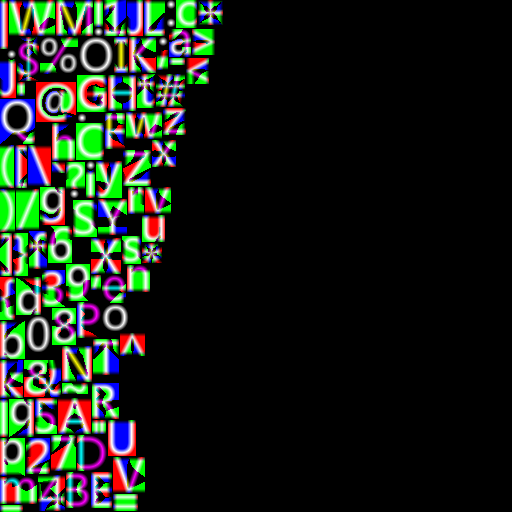
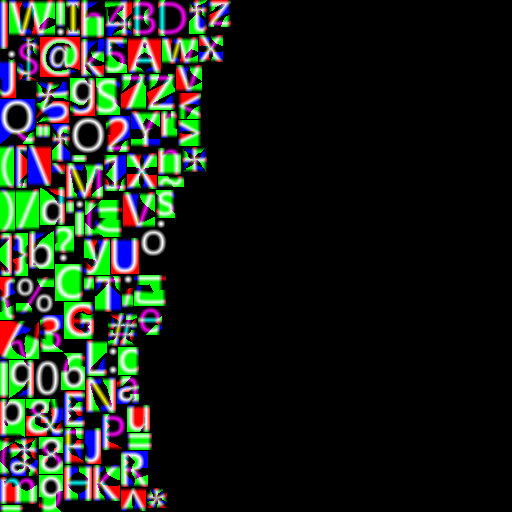
Allow for measuring and centering text

Changed region(s): [[0.0, 0.0, 0.4688, 1.0]]

diff --git a/src/renderer/render-utils/msdf-text.ts b/src/renderer/render-utils/msdf-text.ts
@@ -63,7 +63,7 @@ const msdfTextShader = /*wgsl*/`
     return vec4(1, 1, 1, alpha);
   }
 
-  // Technique from https://drewcassidy.me/2020/06/26/sdf-antialiasing/
+  // Antialiasing technique from https://drewcassidy.me/2020/06/26/sdf-antialiasing/
   @fragment
   fn fragmentMainAntialias(input : VertexOutput) -> @location(0) vec4f {
     let dist = 0.5 - sampleMsdf(input.texcoord);
@@ -97,11 +97,18 @@ export class MsdfFont {
     if (!char) { char = this.defaultChar; }
     return char;
   }
-}
+};
+
+export interface MsdfTextMeasurements {
+  width: number,
+  height: number,
+  lineWidths: number[],
+  printedCharCount: number,
+};
 
 export class MsdfText {
-  constructor(public bindGroup: GPUBindGroup, public charCount: number, public font: MsdfFont) {}
-}
+  constructor(public bindGroup: GPUBindGroup, public measurements: MsdfTextMeasurements, public font: MsdfFont) {}
+};
 
 export class MsdfTextRenderer {
   fontBindGroupLayout: GPUBindGroupLayout;
@@ -257,7 +264,7 @@ export class MsdfTextRenderer {
     return new MsdfFont(bindGroup, json.common.lineHeight * h, chars);
   }
 
-  formatText(font: MsdfFont, text: string): MsdfText {
+  formatText(font: MsdfFont, text: string, centered: boolean = false): MsdfText {
     const textBuffer = this.device.createBuffer({
       label: 'msdf text buffer',
       size: text.length * Float32Array.BYTES_PER_ELEMENT * 8,
@@ -266,31 +273,29 @@ export class MsdfTextRenderer {
     });
 
     const textArray = new Float32Array(textBuffer.getMappedRange());
-    let printedCharCount = 0;
-    let textOffsetX = 0;
-    let textOffsetY = 0;
     let offset = 0;
-    for (let i = 0; i < text.length; ++i) {
-      let charCode = text.charCodeAt(i);
 
-      switch(charCode) {
-        case 10: // Newline
-          textOffsetX = 0;
-          textOffsetY -= font.lineHeight;
-          continue;
-        case 13: // CR
-          continue;
-        default: {
-          printedCharCount++;
-          let char = font.getChar(charCode);
-          textArray[offset] = textOffsetX;
-          textArray[offset+1] = textOffsetY;
-          textArray[offset+2] = char.charIndex;
-          textOffsetX += char.xadvance;
-          offset += 4;
-        }
-      }
+    let measurements: MsdfTextMeasurements;
+    if (centered) {
+      measurements = this.measureText(font, text);
+
+      this.measureText(font, text, (textX: number, textY: number, line: number, char: any) => {
+        const lineOffset = measurements.width * -0.5 - (measurements.width - measurements.lineWidths[line]) * -0.5;
+
+        textArray[offset] = textX + lineOffset;
+        textArray[offset+1] = textY + measurements.height * 0.5;
+        textArray[offset+2] = char.charIndex;
+        offset += 4;
+      });
+    } else {
+      measurements = this.measureText(font, text, (textX: number, textY: number, line: number, char: any) => {
+        textArray[offset] = textX;
+        textArray[offset+1] = textY;
+        textArray[offset+2] = char.charIndex;
+        offset += 4;
+      });
     }
+
     textBuffer.unmap();
 
     const bindGroup = this.device.createBindGroup({
@@ -302,7 +307,56 @@ export class MsdfTextRenderer {
       }]
     });
 
-    return new MsdfText(bindGroup, printedCharCount, font);
+    return new MsdfText(bindGroup, measurements, font);
+  }
+
+  measureText(font: MsdfFont, text: string, charCallback?: (x: number, y: number, line: number, char: any) => void ): MsdfTextMeasurements {
+    let maxWidth = 0;
+    const lineWidths: number[] = [];
+
+    let textOffsetX = 0;
+    let textOffsetY = 0;
+    let line = 0;
+    let printedCharCount = 0;
+    for (let i = 0; i < text.length; ++i) {
+      let charCode = text.charCodeAt(i);
+
+      switch(charCode) {
+        case 10: // Newline
+          lineWidths.push(textOffsetX);
+          line++;
+          maxWidth = Math.max(maxWidth, textOffsetX);
+          textOffsetX = 0;
+          textOffsetY -= font.lineHeight
+          continue;
+        case 13: // CR
+          continue;
+        case 32: // Space
+          // For spaces, just advance the offset without actually adding a
+          // character.
+          let char = font.getChar(charCode);
+          textOffsetX += char.xadvance;
+          continue;
+        default: {
+          let char = font.getChar(charCode);
+          if (charCallback) {
+            charCallback(textOffsetX, textOffsetY, line, char);
+          }
+          textOffsetX += char.xadvance;
+          printedCharCount++;
+        }
+      }
+    }
+
+    lineWidths.push(textOffsetX);
+    maxWidth = Math.max(maxWidth, textOffsetX);
+
+    return {
+      width: maxWidth,
+      height: lineWidths.length * font.lineHeight,
+      lineWidths,
+      printedCharCount,
+    };
   }
 
   render(renderPass: GPURenderPassEncoder, text: MsdfText) {
@@ -310,7 +364,7 @@ export class MsdfTextRenderer {
       renderPass.setPipeline(this.pipeline);
       renderPass.setBindGroup(1, text.font.bindGroup);
       renderPass.setBindGroup(2, text.bindGroup);
-      renderPass.draw(4, text.charCount);
+      renderPass.draw(4, text.measurements.printedCharCount);
     }
   }
 }

diff --git a/demo/index.html b/demo/index.html
@@ -202,7 +202,8 @@ From Marathon to Waterloo, in order categorical
 I'm very well acquainted, too, with matters mathematical
 I understand equations, both the simple and quadratical
 About binomial theorem I am teeming with a lot o' news
-With many cheerful facts about the square of the hypotenuse!`);
+With many cheerful facts about the square of the hypotenuse!
+こんにちは!`, true);
       });
 
       let camera = new OrbitCamera(canvas);
